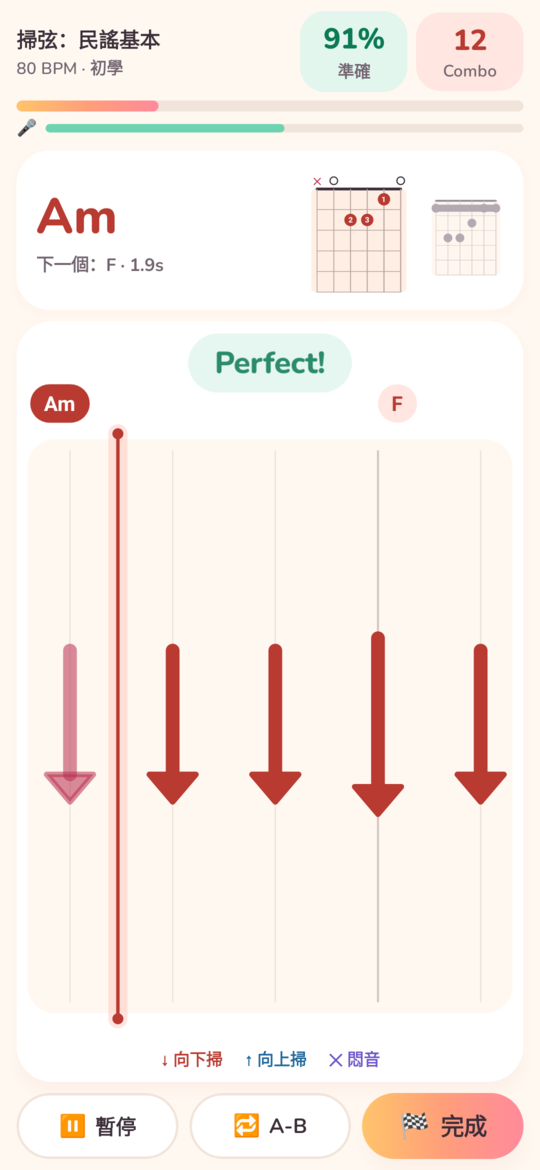
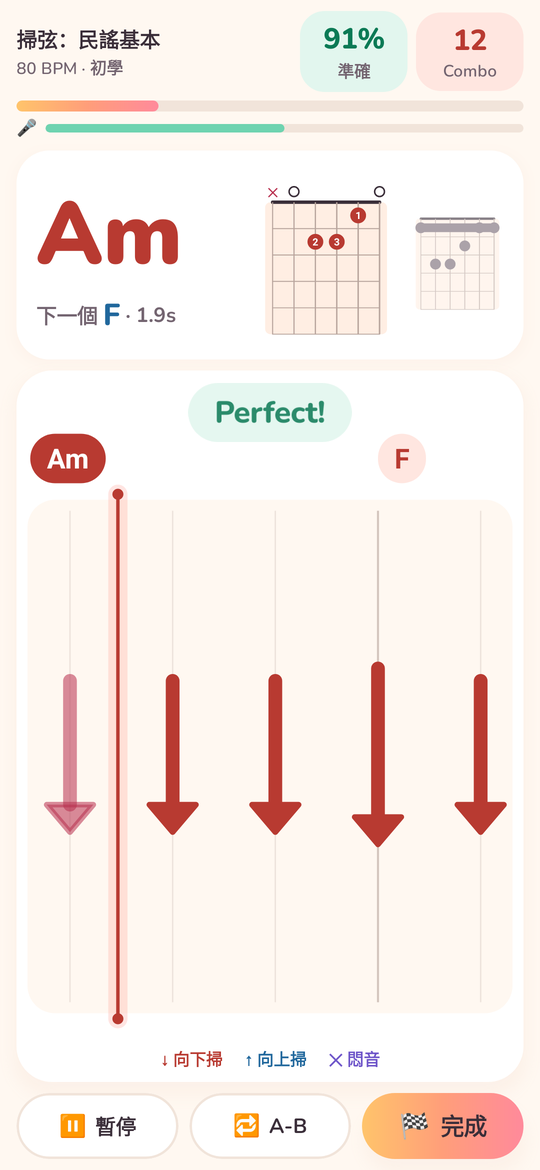
v0.2.3: 歌曲 tab (key change, 4 pattern levels, bigger chords, beat sync) merged onto v0.2.2

diff --git a/README.md b/README.md
@@ -12,7 +12,8 @@ Android（Kotlin + Jetpack Compose）為主；屋企電腦 server（Python FastA
 
 ## 狀態
 
-- **v0.2.2**：App 入面嘅花 emoji 全部改成音樂 emoji（🎵 🎶 🎧 🎤），例如「今日」本星期改為亮音符、「我的」tab 同頭像改為 🎧。
+- **v0.2.3 歌曲 tab**：換 Key 成份譜跟住變（capo 自動建議，可以揀「首歌一齊升降」；改和弦可以只改一格或者改晒同名和弦）；每段 4 級節奏型（簡單／一般／原曲／進階，「原曲」由首歌錄音讀出）；跟彈時和弦字大一倍、小節線更清楚；App 會分析首歌節拍自動對準，「試聽」會加「嗒」聲，唔啱可以修正或者跟歌撳拍子，跟彈時亦可以撳「拍子早咗／遲咗」微調。所有改動每首歌分開記，撳「還原」返去原本分析。
+- **v0.2.2**：App 入面嘅花 emoji 全部改成音樂 emoji（🎵 🎶 🎧），例如「今日」本星期改為亮音符、「我的」tab 同頭像改為 🎧。
 - **v0.2.1**：修正「揀手機入面嘅音樂檔」分析時閃退（長歌 / 高解析度檔記憶體唔夠）。而家逐段解碼，10 分鐘歌最多用大約 64 MB（以前 4 分鐘歌已經要 ~130 MB）；長過 10 分鐘只分析頭 10 分鐘，會清楚提示；分析喺背景做（轉 tab 唔會斷、唔會重複分析），可以撳「取消」；萬一再閃退，「設定」會顯示上次閃退紀錄，可以一撳分享。
 - **v0.2.0「晨光」UI 改版**：明亮奶油色 + 日出漸變、圓體字、4 個 tab（今日 / 練習 / 歌曲 / 我的）、新手路線圖、每日目標、今日和弦、暱稱問候、新 icon。核心功能（調音、判定、歌曲分析）同 v0.1.0 一樣。設計說明見 [docs/DESIGN.md](docs/DESIGN.md)。
 - **v0.1.0**（debug build）已完成；Phase 0 數據驗證完成（GuitarSet + 合成尼龍弦），詳見 [validation/REPORT.md](validation/REPORT.md)。
@@ -43,9 +44,9 @@ Android（Kotlin + Jetpack Compose）為主；屋企電腦 server（Python FastA
 APK 唔入 git（約 32 MB 二進制檔）。取得方法二選一：
 
 1. **自己 build**：`cd android && ./gradlew assembleDebug`，APK 喺 `android/app/build/outputs/apk/debug/app-debug.apk`（詳見 [docs/BUILD.md](docs/BUILD.md)）。
-2. **向作者攞** `GuitarTrainer-0.2.2-debug.apk`（最新）。
+2. **向作者攞** `GuitarTrainer-0.2.3-debug.apk`（最新）。
 
-> **由 v0.1.0 升級**：要先刪除舊版（長撳 icon → 解除安裝），因為兩個版本嘅簽名 key 唔同；練習紀錄會清空。v0.2.0 之後嘅版本（v0.2.1、v0.2.2…）會直接覆蓋更新（紀錄保留）。
+> **由 v0.1.0 升級**：要先刪除舊版（長撳 icon → 解除安裝），因為兩個版本嘅簽名 key 唔同；練習紀錄會清空。v0.2.0 之後嘅版本（v0.2.1、v0.2.2、v0.2.3…）會直接覆蓋更新（紀錄保留）。
 
 之後：
 1. 將 APK 轉到手機 → 撳開。
@@ -57,8 +58,8 @@ APK 唔入 git（約 32 MB 二進制檔）。取得方法二選一：
 - `dsp/` MPM 音高、onset、和弦 chroma、掃弦方向模型、Basic Pitch（TFLite）
 - `audio/` AudioRecord / AudioTrack 引擎、節拍機 click、即時分析
 - `game/` 判定（Judge）、難度、遊戲 session、校準、成績
-- `music/` 和弦庫（50 個指法）、節奏型（strum + 指彈）、Chart 格式、capo / 移調
-- `analysis/` 手機本機歌曲分析（MediaCodec 解碼 → 節拍 → 和弦 → key → capo → 分段）
+- `music/` 和弦庫（50 個指法）、節奏型（strum + 指彈）、Chart 格式、capo / 移調、每首歌設定（`SongSetup.kt`：換 Key / capo / 節奏型級數 / 拍子格）、4 級節奏型建議（`PatternSuggest.kt`）
+- `analysis/` 手機本機歌曲分析（MediaCodec 解碼 → 節拍 → 和弦 → key → capo → 分段）；`RhythmAnalyzer.kt` 節拍包絡、beat tracking、自動對拍、跟歌撳拍
 - `net/` 連屋企 server
 - `data/` 本機儲存（JSON）、本地日期計連續日數（`Days.kt`）
 - `ui/` 所有畫面（Compose）；`Theme.kt` 色板 / 字體 / 共用元件，`Navigation.kt` 4 個 tab
@@ -66,6 +67,6 @@ APK 唔入 git（約 32 MB 二進制檔）。取得方法二選一：
 詳細模組同數據流見 [docs/ARCHITECTURE.md](docs/ARCHITECTURE.md)。
 
 ## 測試
-- App：`cd android && ./gradlew testDebugUnitTest`（34 個 unit tests：DSP、方向模型、判定、樂理、歌曲分析、tempo 同 Python 一致、串流 resample / PCM 轉換、10 分鐘歌喺 128 MB heap 內分析得到；另加 37 個 Paparazzi 畫面截圖測試）
+- App：`cd android && ./gradlew testDebugUnitTest`（48 個 unit tests：DSP、方向模型、判定、樂理、歌曲分析、tempo 同 Python 一致、串流 resample / PCM 轉換、10 分鐘歌喺 128 MB heap 內分析得到、換 Key / 改和弦 / capo / 拍子格 / 對拍 / 原曲節奏型（`SongToolsTest`）；另加 40 個 Paparazzi 畫面截圖測試）
 - 畫面截圖：`cd android && ./gradlew :app:recordPaparazziDebug` → `app/src/test/snapshots/images/`（見 [docs/DESIGN.md](docs/DESIGN.md#7-截圖測試paparazzi)）
 - Server：`cd server && python tests/test_pipeline.py`

diff --git a/docs/ARCHITECTURE.md b/docs/ARCHITECTURE.md
@@ -26,11 +26,11 @@
 | `audio/` | 麥克風 / 喇叭引擎、節拍機、即時分析 | `AudioEngine.kt`（UNPROCESSED 優先，唔支援就用 VOICE_RECOGNITION）、`MicSession.kt`、`AudioRing.kt`、`ClickTrack.kt`、`LiveAnalyzer.kt` |
 | `dsp/` | 音高、onset、和弦 chroma、掃弦方向、Basic Pitch、resample | `Pitch.kt`（MPM）、`OnsetDetector.kt`、`ChordAnalyzer.kt`、`DirectionModel.kt`、`BasicPitch.kt`（TFLite）、`Fft.kt`、`StreamResampler.kt` |
 | `game/` | 判定、難度、遊戲 session、校準、成績 | `Judge.kt`、`Difficulty.kt`、`GameSession.kt`、`NoteVerifier.kt`、`Calibrator.kt`、`Summary.kt` |
-| `music/` | 樂理、和弦庫、節奏型、Chart | `Chords.kt`、`ChordNames.kt`、`Theory.kt`、`Patterns.kt`、`Chart.kt`、`ChartBuilder.kt` |
-| `analysis/` | 本機歌曲分析 | `AudioDecoder.kt`（MediaCodec，串流解碼）、`Pcm.kt`（PCM → mono）、`SongAnalyzer.kt` |
+| `music/` | 樂理、和弦庫、節奏型、Chart | `Chords.kt`、`ChordNames.kt`、`Theory.kt`、`Patterns.kt`、`Chart.kt`、`ChartBuilder.kt`、`SongSetup.kt`（每首歌設定）、`PatternSuggest.kt`（4 級節奏型） |
+| `analysis/` | 本機歌曲分析 | `AudioDecoder.kt`（MediaCodec，串流解碼）、`Pcm.kt`（PCM → mono）、`SongAnalyzer.kt`、`RhythmAnalyzer.kt`（節拍包絡 / beat tracking / 對拍） |
 | `net/` | 連屋企 server | `ServerApi.kt` |
 | `data/` | 本機儲存（JSON）、本地日期 / 連續日數、加歌 job、閃退紀錄 | `Store.kt`、`Days.kt`、`SongImporter.kt`、`CrashLog.kt` |
-| `ui/` | Compose 畫面（設計見 [DESIGN.md](DESIGN.md)） | `Theme.kt`（色板 / 字體 / 元件）、`Navigation.kt`（4 個 tab）、`HomeScreen.kt`（今日）、`PracticeHubScreen.kt`（練習）、`StatsScreen.kt`（我的）、`TunerScreen.kt`、`MetronomeScreen.kt`、`PracticeScreen.kt`、`ChordScreens.kt`、`SongScreens.kt`、`GameScreen.kt`、`ResultsScreen.kt`、`CalibrationScreen.kt`、`SettingsScreen.kt` 等 |
+| `ui/` | Compose 畫面（設計見 [DESIGN.md](DESIGN.md)） | `Theme.kt`（色板 / 字體 / 元件）、`Navigation.kt`（4 個 tab）、`HomeScreen.kt`（今日）、`PracticeHubScreen.kt`（練習）、`StatsScreen.kt`（我的）、`TunerScreen.kt`、`MetronomeScreen.kt`、`PracticeScreen.kt`、`ChordScreens.kt`、`SongScreens.kt`（歌曲列表）、`SongDetail.kt`（歌曲頁）、`SongTools.kt`（換 Key / 節奏型 / 拍子工具）、`GameScreen.kt`、`ResultsScreen.kt`、`CalibrationScreen.kt`、`SettingsScreen.kt` 等 |
 
 ## 3. Server
 
@@ -63,6 +63,12 @@
 
 ### 4.3 Server 分析
 YouTube link / 上傳 → yt-dlp 下載 → ffmpeg 解碼 →（可選）Demucs `htdemucs_6s` 分離 → `analysis.py` → `chart.json` + `mix.m4a` + `no_guitar.m4a` → 手機 `ServerApi` 拎返 cache。
+
+### 4.4 跟歌設定（v0.2.3）
+`chart.json` 永遠唔改；用家嘅改動每首歌分開存喺 `songDir(id)`：`song_prefs.json`（`SongPrefs`：transpose、首歌一齊升降、capo、節奏型級數 / 類別、每段自選、offset）、`beat_grid.json`（`BeatGrid`，修正過嘅拍子）、`rhythm_env.bin`（`OnsetEnvelope` cache，3-band spectral flux 100 fps，10 分鐘約 0.5 MB，最多分析 15 分鐘）。「還原」會清走呢啲檔。
+`SongSetup.effective()` 疊加次序：拍子格 → 換 Key（和弦 + key）→ capo（自己揀就跟自己，否則按新 Key 重新建議）→ `pitchShift`（首歌一齊升降，`GameSession` 用 `PlaybackParameters` 變調）→ offset。
+`PatternSuggest`：每段 4 級（簡單 / 一般 / 原曲 / 進階）；「原曲」由 onset 包絡讀出每小節 16 格嘅重音，唔喺節奏型庫嘅會生成 `orig:…` id（唔寫入 patterns.json）。`ChartBuilder.song()` 逐小節放節奏型，唔會溢出去下一小節。
+對拍：`RhythmAnalyzer` 做 tempo + DP beat tracking，第一次建好包絡後自動對準一次（明顯更啱先改，可以復原）；「試聽」= 首歌 + 嗒聲；跟彈時「拍子早咗 / 遲咗」±20 ms，完成時存返落首歌。
 
 ## 5. 關鍵參數（Phase 0 定案）
 

diff --git a/PROGRESS.md b/PROGRESS.md
@@ -53,8 +53,13 @@ Task index -> page id (https://app.notion.com/p/<id>):
 47 AEC 6b9a0366c4bb4fad8a81c261997aa258
 48 smartwatch fallback ebad822fe1f64910aea209635f840538
 49 on-device song analysis 1fb3ff83fb5844d7b572e2e03b30ab3d
+50 song key change moves whole chart [PENDING] 29159934d8f94551b150b49bf3a28234
+51 song pattern levels 簡單/一般/原曲/進階 [PENDING] d7a3845c614e48679699276916c8a2ab
+52 bigger chord font in song practice [PENDING] a3984d94607f4dde8d0bc01253d8765c
+53 song beat sync [PENDING] 377412874d304b8d8c8c0a381399ac1a
 
 ## Done log
-- v0.2.2: all flower emoji in the app replaced with music emoji (🌼 → 🎵/🎶, 🌷 → 🎧/🎶/🎤; tab「我的」+ avatar 🎧, week dots 🎵, level「練習生 🎵」); DESIGN.md「本星期音符」. Same signing key → installs over v0.2.1.
+- v0.2.3 歌曲 tab (merged from the 歌曲-tab session's patch on v0.2.0 + v0.2.2): key change moves the whole chart (+ optional pitch follow, capo re-suggested, chord edit one / all same / whole key), 4 pattern levels per section (簡單/一般/原曲/進階; 原曲 read from the onset envelope), bigger chord card in practice (64 sp), beat sync (RhythmAnalyzer envelope + DP tracking, auto-align once, 試聽 click preview, grid fixes, tap sync, live 拍子早咗/遲咗 nudge saved per song). Song page moved to ui/SongDetail.kt (+ SongTools.kt); v0.2.1 partial-song hint ported. Per-song files: song_prefs.json, beat_grid.json, rhythm_env.bin (chart.json untouched; 還原 clears). Tasks 50–53 → 待你處理.
+- v0.2.2: all flower emoji in the app replaced with music emoji (🌼 → 🎵/🎶, 🌷 → 🎧/🎶; tab「我的」+ avatar 🎧, week dots 🎵, level「練習生 🎵」); DESIGN.md「本星期音符」. Same signing key → installs over v0.2.1.
 - v0.2.1 fix: app crashed when analysing a local song (old decoder kept the whole song at full rate + copies → OOM on long / hi-res files). Streaming decode + resample (10-min song ≈ 64 MB peak vs OOM before), app-scope SongImporter (one job, survives tab switches, cancel), 10-minute notice (status + song page), 300 MB / 10 s / no-chord guards, real file names as titles, crash log in Settings (share), largeHeap. +12 unit tests (StreamResampler, Pcm, DecodeMemoryTest in a 128 MB JVM), +4 screenshots.
 - v0.2.0「晨光」UI/UX redesign (for beginner / girl guitarists, bright-morning feel): new palette + Nunito/Pacifico fonts, 4 tabs (今日/練習/歌曲/我的), beginner roadmap, daily goal + chord of the day + nickname greeting, restyled game lane/tuner/results/stats, custom slider + haptics, adaptive icon, local-day streak fix (Days.kt), 33 Paparazzi screenshot tests. See docs/DESIGN.md.
